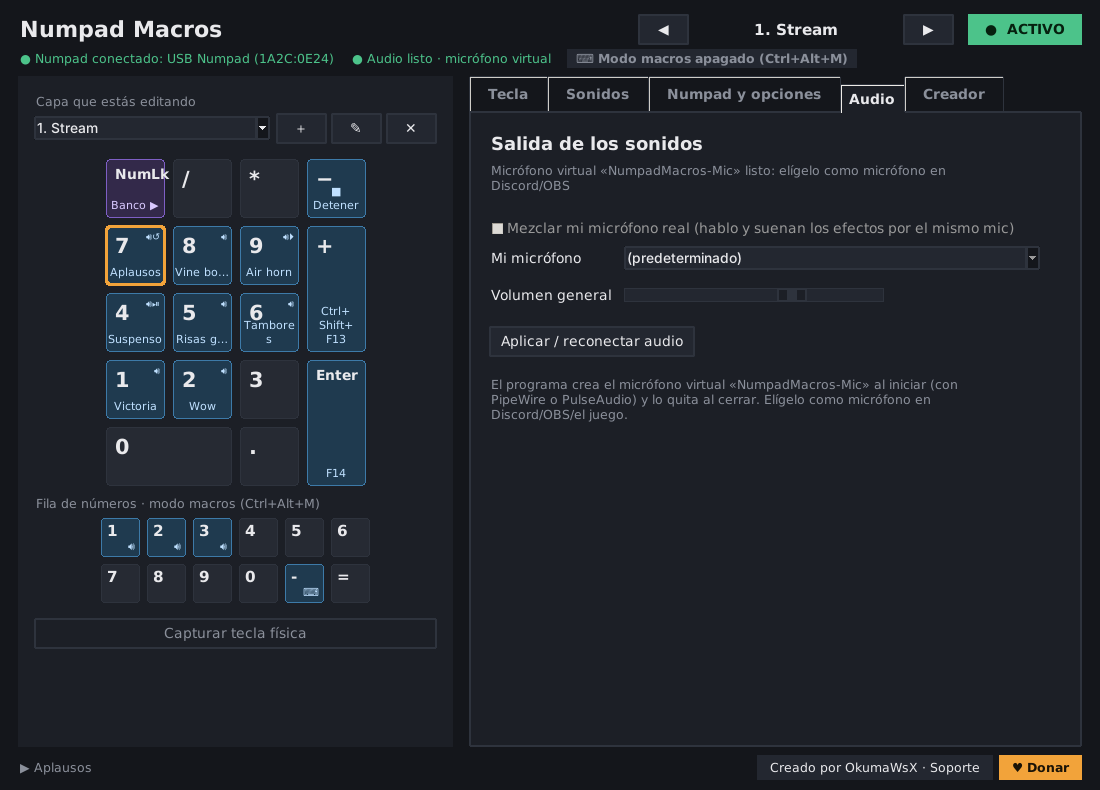
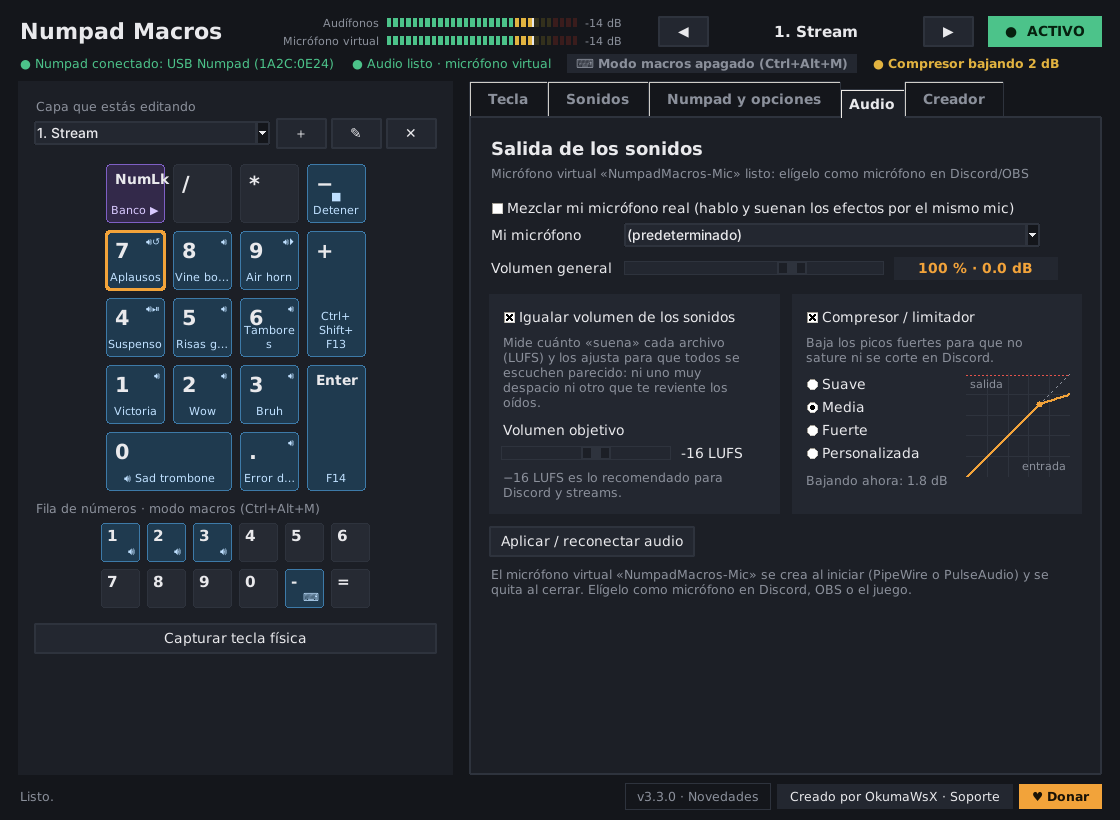
Capturas de la 3.3 en el README y aviso del compresor visible
- docs/img: capturas reales de la 3.3 (medidores, audio, actualización,
  novedades, biblioteca con LUFS, grabar combinación, opciones, creador).
- README: sección «Novedades de la versión 3.3».
- El aviso del compresor/saturación pasa a la fila de indicadores (se cortaba).
- Mensaje corto cuando no hay conexión para buscar actualizaciones.

Claude-Session: https://claude.ai/code/session_015XiB44ipCxyPphCTc61Ahh

diff --git a/npm/gui.py b/npm/gui.py
@@ -233,6 +233,9 @@ class App:
         self.chip_row = FlatButton(chips, command=self._toggle_row, bg=C["bg"],
                                    font=(FONT, BASE - 1, "bold"), padx=8, pady=1)
         self.chip_row.pack(side="left")
+        # aviso del compresor o de saturación (junto a los demás indicadores)
+        self.meter_flag = tk.Label(chips, bg=C["bg"], font=(FONT, BASE - 1, "bold"))
+        self.meter_flag.pack(side="left", padx=(14, 0))
 
         bank_box = ttk.Frame(head)
         bank_box.grid(row=0, column=2, sticky="e", padx=(0, 14))
@@ -262,8 +265,6 @@ class App:
             val = tk.Label(mt, text="—", bg=C["bg"], fg=C["muted"], font=(FONT, BASE - 2), width=7, anchor="w")
             val.grid(row=i, column=2, sticky="w", padx=(6, 0))
             self.meters[key] = (m, val)
-        self.meter_flag = tk.Label(mt, bg=C["bg"], font=(FONT, BASE - 2, "bold"), width=16, anchor="w")
-        self.meter_flag.grid(row=0, column=3, rowspan=2, sticky="w", padx=(4, 0))
 
         # aviso de versión nueva (oculto hasta que haya una)
         self.banner = tk.Frame(head, bg="#3a2c14", highlightbackground=C["accent_dim"], highlightthickness=1)
@@ -1988,9 +1989,9 @@ class App:
             shown = meter.set(peak)
             val.configure(text=f"{shown:.0f} dB" if shown > -59 else "")
             if sat:
-                flag, color = "SATURA", C["bad"]
+                flag, color = "● SATURA: baja el volumen", C["bad"]
             elif gr >= 1.0 and not flag:
-                flag, color = f"Compresor −{gr:.0f} dB", C["warn"]
+                flag, color = f"● Compresor bajando {gr:.0f} dB", C["warn"]
         self.meter_flag.configure(text=flag, fg=color)
         if hasattr(self, "comp_live"):
             gr = max((d[2] for d in lv.values() if d), default=0.0)
@@ -2061,7 +2062,7 @@ class App:
                 self.cfg["updates"]["last_check"] = checked_at
             self._save()
         if err:
-            self.upd_lbl.configure(text=f"No se pudo comprobar: {err}")
+            self.upd_lbl.configure(text="No se pudo comprobar (sin conexión con GitHub). Se volverá a intentar.")
             if manual:
                 self._set_status("No pude consultar si hay versiones nuevas (¿hay internet?).", bad=True)
             return

diff --git a/README.md b/README.md
@@ -24,6 +24,18 @@ Numpad Macros es una aplicación de escritorio **gratuita y de código abierto**
 
 Es independiente: trae su propia biblioteca y su propio reproductor de sonidos, así que **no necesita Soundpad** ni otro programa.
 
+## Novedades de la versión 3.3
+
+| Medidores en tiempo real | Igualar volumen y compresor |
+|---|---|
+| <img src="docs/img/principal.png" alt="Medidores de volumen y volumen de la tecla en % y dB"> | <img src="docs/img/audio.png" alt="Pestaña Audio con igualar volumen y compresor"> |
+| Arriba se ve lo que suena en tus audífonos y en el micrófono virtual. El volumen de cada tecla se muestra en **% y dB** mientras lo mueves. | **Igualar volumen** deja todos los sonidos al mismo nivel (LUFS) y el **compresor/limitador** evita que saturen en Discord. |
+| **Actualización con un clic** | **Novedades de tu versión** |
+| <img src="docs/img/actualizacion.png" alt="Aviso de versión nueva y ventana de actualización"> | <img src="docs/img/novedades.png" alt="Ventana de novedades de la versión instalada"> |
+| Cuando sale una versión nueva aparece un aviso: **Actualizar ahora** la descarga, comprueba que sea la original y se instala sola. | El botón **Novedades** de abajo muestra qué trae la versión instalada y las anteriores. |
+
+<p align="center"><img src="docs/img/atajo.png" width="560" alt="Grabar una combinación pulsando las teclas"><br><sub>Las combinaciones se pueden <b>grabar pulsando las teclas</b>, con aviso si chocan con otros programas.</sub></p>
+
 ## Características
 
 | | |
@@ -108,7 +120,7 @@ La guía completa está en **[LEEME.md](LEEME.md)**.
 <details>
 <summary><b>Más capturas</b></summary>
 
-| Biblioteca de sonidos | Numpad y opciones |
+| Biblioteca de sonidos (con volumen medido) | Numpad y opciones |
 |---|---|
 | <img src="docs/img/sonidos.png" alt="Biblioteca de sonidos"> | <img src="docs/img/opciones.png" alt="Opciones"> |
 | **Audio** | **Creador y soporte** |

diff --git a/CHANGELOG.md b/CHANGELOG.md
@@ -3,6 +3,9 @@
 Todas las versiones de Numpad Macros. El formato sigue [Keep a Changelog](https://keepachangelog.com/es-ES/1.1.0/) y el proyecto usa [versionado semántico](https://semver.org/lang/es/).
 
 ## [Sin publicar]
+### Corregido
+- El aviso del compresor y de saturación ya no queda cortado junto a los medidores: ahora aparece con los demás indicadores.
+- Mensaje más claro cuando no se puede buscar actualizaciones por falta de conexión.
 
 ## [3.3.0] - 2026-10-15
 ### Añadido
